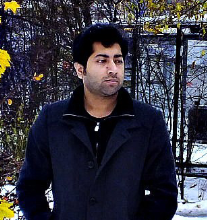
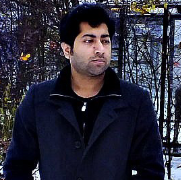
resized pictures

diff --git a/organizingcommittee/oc.md b/organizingcommittee/oc.md
@@ -7,7 +7,7 @@ title: Organizing Committee
 
 ## Thamar Solorio
 
-![Thamar Solorio Picture](/images/solorio1.PNG)
+![Thamar Solorio Picture](/images/sol.PNG)
 - Associate Professor
 - Department of Computer Science
 - University of Houston
